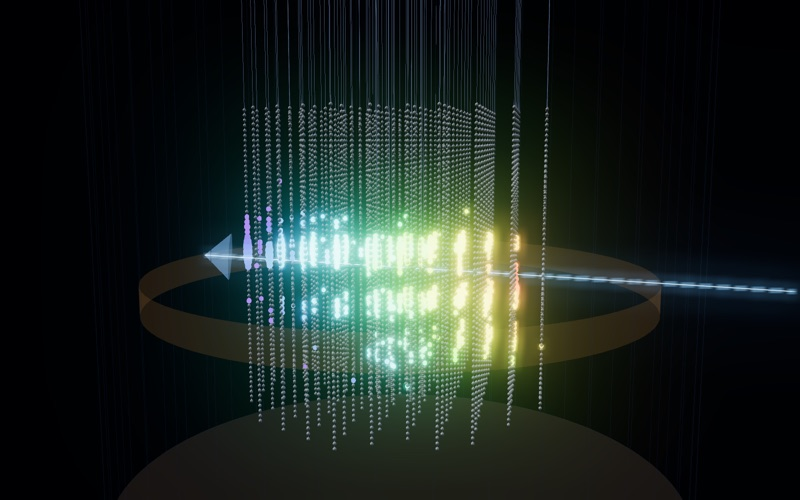
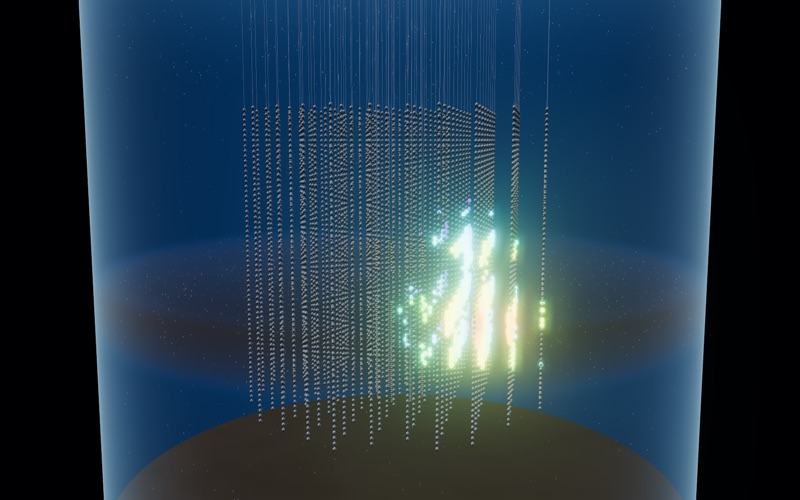
nuclearjs: IceCube page, the ice as a volume (nuclearjs 3087970)

diff --git a/nuclearjs/icecube.html b/nuclearjs/icecube.html
@@ -253,7 +253,7 @@ const SKY = WaveStage.skyGLSL(new THREE.Vector3(-0.4, 0.85, 0.45));
 scene.environment = WaveStage.environment(renderer, SKY);
 const GROUND = new THREE.Color("#05080e");
 scene.background = GROUND.clone();
-scene.fog = new THREE.Fog("#05080e", 700, 1500);
+scene.fog = new THREE.Fog("#04101f", 420, 1500);
 const controls = new OrbitControls(camera, renderer.domElement);
 controls.enableDamping = true; controls.dampingFactor = 0.08;
 controls.minDistance = 60; controls.maxDistance = 1200;
@@ -317,24 +317,87 @@ hits.count = 0; hits.instanceMatrix.setUsage(THREE.DynamicDrawUsage); hits.userD
 }
 // ice surface, IceTop tanks (two per station, 10 m apart, on the first 81 positions), the dust layer, the rock
 const RX = 95;
+let ICE_MAT = null, SPECKS = null;
 {
-  const surf = new THREE.Mesh(new THREE.CircleGeometry(RX * 1.15, 96).rotateX(-Math.PI / 2), new THREE.MeshStandardMaterial({ color: "#c9d4e2", roughness: 0.9, metalness: 0, transparent: true, opacity: 0.16, depthWrite: false }));
-  surf.position.y = yOfDepth(0); scene.add(surf);
+  // the ice: a column from the surface to the rock, drawn as a volume. Each pixel marches its view ray through the
+  // column (analytic ray-cylinder intersection) and adds the light the ice scatters towards the camera: whiter firn
+  // and bubbly ice near the top, clear blue ice below, the brown dust layer, a brighter rim where the column's wall is
+  // seen at a grazing angle. Drawn first and additively, so the sensors and the event sit inside it.
+  const RI = RX * 1.15, yTop = yOfDepth(0), yBot = yOfDepth(D.geo.iceThick * 1000);
+  ICE_MAT = new THREE.ShaderMaterial({
+    uniforms: { uR: { value: RI }, uTop: { value: yTop }, uBot: { value: yBot }, uScale: { value: U }, uD0: { value: D.geo.dust[0] }, uD1: { value: D.geo.dust[1] }, uGain: { value: 1.0 } },
+    vertexShader: `varying vec3 vW; void main() { vec4 w = modelMatrix * vec4(position, 1.0); vW = w.xyz; gl_Position = projectionMatrix * viewMatrix * w; }`,
+    fragmentShader: `
+      uniform float uR, uTop, uBot, uScale, uD0, uD1, uGain; varying vec3 vW;
+      void main() {
+        vec3 ro = cameraPosition, rd = normalize(vW - ro);
+        float a = dot(rd.xz, rd.xz), b = 2.0 * dot(ro.xz, rd.xz), c = dot(ro.xz, ro.xz) - uR * uR;
+        float disc = b * b - 4.0 * a * c;
+        if (disc < 0.0 || a < 1e-9) discard;
+        float sq = sqrt(disc), t0 = (-b - sq) / (2.0 * a), t1 = (-b + sq) / (2.0 * a);
+        float ya = (uBot - ro.y) / rd.y, yb = (uTop - ro.y) / rd.y;
+        float tn = max(max(t0, min(ya, yb)), 0.0), tf = min(t1, max(ya, yb));
+        if (tf <= tn) discard;
+        vec3 col = vec3(0.0); float T = 1.0; const int N = 28; float dt = (tf - tn) / float(N);
+        for (int i = 0; i < N; i++) {
+          vec3 p = ro + rd * (tn + (float(i) + 0.5) * dt);
+          float depth = (uTop - p.y) * uScale;
+          float bub = 1.0 - smoothstep(150.0, 1400.0, depth);             // firn and bubbly ice above about 1.4 km
+          float dust = smoothstep(uD0 - 60.0, uD0, depth) * (1.0 - smoothstep(uD1, uD1 + 60.0, depth));
+          float deep = smoothstep(2500.0, 2800.0, depth);
+          vec3 cc = mix(vec3(0.012, 0.045, 0.110), vec3(0.050, 0.120, 0.190), bub);
+          cc = mix(cc, vec3(0.020, 0.013, 0.007), 0.9 * dust);           // dust absorbs: a darker, browner band
+          cc = mix(cc, vec3(0.012, 0.030, 0.060), deep);
+          float r = length(p.xz) / uR;
+          cc *= 1.0 + 0.7 * smoothstep(0.85, 1.0, r);
+          float k = 0.0040 * (1.0 + 2.5 * bub + 7.0 * dust);
+          float w = 1.0 - exp(-k * dt);
+          col += T * w * cc; T *= 1.0 - w;
+        }
+        gl_FragColor = vec4(col * 1.6 * uGain, 1.0);
+      }`,
+    side: THREE.BackSide, blending: THREE.AdditiveBlending, depthWrite: false, transparent: false,
+  });
+  const iceVol = new THREE.Mesh(new THREE.CylinderGeometry(RI, RI, yTop - yBot, 96, 1, false), ICE_MAT);
+  iceVol.position.y = (yTop + yBot) / 2; iceVol.renderOrder = -10; iceVol.frustumCulled = false; iceVol.userData.noAO = true;
+  scene.add(iceVol);
+  // the wall of the column: a faint glassy rim where it is seen edge-on
+  const rim = new THREE.Mesh(new THREE.CylinderGeometry(RI, RI, yTop - yBot, 96, 1, true), new THREE.ShaderMaterial({
+    vertexShader: `varying vec3 vN, vV; void main() { vec4 w = modelMatrix * vec4(position, 1.0); vN = normalize(mat3(modelMatrix) * normal); vV = normalize(cameraPosition - w.xyz); gl_Position = projectionMatrix * viewMatrix * w; }`,
+    fragmentShader: `varying vec3 vN, vV; void main() { float f = pow(1.0 - abs(dot(normalize(vN), normalize(vV))), 4.0); gl_FragColor = vec4(vec3(0.35, 0.62, 0.85) * f * 0.55, 1.0); }`,
+    side: THREE.FrontSide, blending: THREE.AdditiveBlending, depthWrite: false, transparent: true }));
+  rim.position.y = iceVol.position.y; rim.userData.noAO = true; scene.add(rim);
+  // the snow surface (seen from above) and the rock below (seen from above through the ice)
+  const snowTex = WaveStage.noiseTexture(256, 24, 0.75, 1.0, 11);
+  const surf = new THREE.Mesh(new THREE.CircleGeometry(RI, 96).rotateX(-Math.PI / 2), new THREE.MeshStandardMaterial({ color: "#7d8a9b", roughness: 0.95, roughnessMap: snowTex, bumpMap: snowTex, bumpScale: 0.6, metalness: 0, envMapIntensity: 0.25 }));
+  surf.position.y = yTop; scene.add(surf);
+  const surfEdge = new THREE.Mesh(new THREE.RingGeometry(RI - 0.4, RI + 0.4, 96).rotateX(-Math.PI / 2), new THREE.MeshBasicMaterial({ color: "#5f7d99", side: THREE.DoubleSide }));
+  surfEdge.position.y = yTop + 0.02; scene.add(surfEdge);
   const tank = new THREE.CylinderGeometry(0.93, 0.93, 0.6, 20), tm = new THREE.MeshStandardMaterial({ color: "#d9dee6", roughness: 0.6 });
   const tanks = new THREE.InstancedMesh(tank, tm, D.geo.icetop.tanks), m4 = new THREE.Matrix4();
   for (let k = 0; k < D.geo.icetop.stations; k++) {
     const s = STR[k], h = D.geo.icetop.sep / U / 2;
-    m4.makeTranslation(s.x - h, yOfDepth(0) + 0.3, s.z + 1.5); tanks.setMatrixAt(2 * k, m4);
-    m4.makeTranslation(s.x + h, yOfDepth(0) + 0.3, s.z + 1.5); tanks.setMatrixAt(2 * k + 1, m4);
+    m4.makeTranslation(s.x - h, yTop + 0.3, s.z + 1.5); tanks.setMatrixAt(2 * k, m4);
+    m4.makeTranslation(s.x + h, yTop + 0.3, s.z + 1.5); tanks.setMatrixAt(2 * k + 1, m4);
   }
   scene.add(tanks);
-  const dust = new THREE.Mesh(new THREE.CylinderGeometry(RX, RX, (D.geo.dust[1] - D.geo.dust[0]) / U, 96, 1, true), new THREE.MeshBasicMaterial({ color: "#8a6a3a", transparent: true, opacity: 0.12, side: THREE.DoubleSide, depthWrite: false }));
-  dust.position.y = yOfDepth((D.geo.dust[0] + D.geo.dust[1]) / 2); scene.add(dust);
-  const rock = new THREE.Mesh(new THREE.CircleGeometry(RX * 1.15, 96).rotateX(-Math.PI / 2), new THREE.MeshStandardMaterial({ color: "#2a221d", roughness: 1, metalness: 0, transparent: true, opacity: 0.55, depthWrite: false }));
-  rock.position.y = yOfDepth(D.geo.iceThick * 1000); scene.add(rock);
-  // faint outline of the ice column
-  const edge = new THREE.LineSegments(new THREE.EdgesGeometry(new THREE.CylinderGeometry(RX * 1.15, RX * 1.15, D.geo.iceThick * 1000 / U, 48, 1, true)), new THREE.LineBasicMaterial({ color: "#1d2a3e", transparent: true, opacity: 0.35 }));
-  edge.position.y = yOfDepth(D.geo.iceThick * 500); scene.add(edge);
+  const rock = new THREE.Mesh(new THREE.CircleGeometry(RI, 96).rotateX(-Math.PI / 2), new THREE.MeshStandardMaterial({ color: "#2b231d", roughness: 1, metalness: 0, roughnessMap: WaveStage.noiseTexture(256, 10, 0.6, 1.0, 3) }));
+  rock.position.y = yBot; scene.add(rock);
+  // specks in the ice: air bubbles near the top, dust in the dust layer, a few everywhere; they drift very slowly
+  const nB = 3500, pos = new Float32Array(nB * 3), colA = new Float32Array(nB * 3);
+  let sd = 12345; const rr = () => (sd = (sd * 16807) % 2147483647) / 2147483647;
+  for (let i = 0; i < nB; i++) {
+    const kind = rr(), ang = 2 * Math.PI * rr(), rad = RI * Math.sqrt(rr()) * 0.985;
+    let depth, c;
+    if (kind < 0.45) { depth = 1400 * Math.pow(rr(), 1.6); c = [0.75, 0.88, 1.0]; }
+    else if (kind < 0.7) { depth = D.geo.dust[0] - 30 + (D.geo.dust[1] - D.geo.dust[0] + 60) * rr(); c = [0.85, 0.62, 0.38]; }
+    else { depth = D.geo.iceThick * 1000 * rr(); c = [0.45, 0.65, 0.9]; }
+    pos.set([rad * Math.cos(ang), yOfDepth(depth), rad * Math.sin(ang)], 3 * i); colA.set(c, 3 * i);
+  }
+  const bg = new THREE.BufferGeometry(); bg.setAttribute("position", new THREE.BufferAttribute(pos, 3)); bg.setAttribute("color", new THREE.BufferAttribute(colA, 3));
+  SPECKS = new THREE.Points(bg, new THREE.PointsMaterial({ size: 0.9, sizeAttenuation: true, vertexColors: true, transparent: true, opacity: 0.55, depthWrite: false, blending: THREE.AdditiveBlending,
+    map: WaveStage.radialTexture([[0, 1], [0.35, 0.45], [1, 0]]) }));
+  SPECKS.userData.noAO = true; scene.add(SPECKS);
 }
 // event objects
 const nuLine = new THREE.Line(new THREE.BufferGeometry(), new THREE.LineDashedMaterial({ color: "#c8b8ff", dashSize: 4, gapSize: 3, transparent: true, opacity: 0.7 }));
@@ -750,7 +813,7 @@ function staticTexts() {
   const P = NO.NO;
   document.getElementById("flnote").innerHTML = `Open circles: flavour at the source; dots: at Earth after oscillations averaged over the astronomical distance, with NuFIT 6.0 best fits (sin²θ₁₂ = ${P.s12.bf}, sin²θ₂₃ = ${P.s23.bf}, sin²θ₁₃ = ${P.s13.bf}, δ<sub>CP</sub> = ${P.dcp.bf}° for normal ordering). Cloud: random points inside the one-dimensional 3σ ranges with δ<sub>CP</sub> free, a scan rather than a confidence region. A pion-decay source arrives as nearly equal flavours; a neutron-decay source keeps an electron-flavour excess. Long tracks come mainly from ν<sub>μ</sub> charged-current interactions (and τ decays to muons); everything else is a shower.`;
   document.getElementById("fxnote").innerHTML = `IceCube's 9.5-year muon-neutrino fit: Φ = ${D.astro.phi0}<sup>+${D.astro.dphi[1]}</sup><sub>−${D.astro.dphi[0]}</sub> ×10⁻¹⁸ (E/100 TeV)<sup>−${D.astro.gamma}±${D.astro.dgamma}</sup> GeV⁻¹ cm⁻² s⁻¹ sr⁻¹ per flavour (ν + ν̄), solid where the data constrain it (${fE(D.astro.E1)} to ${fE(D.astro.E2)}), band the envelope of the one-sigma box (correlations ignored). The rate assumes ν : ν̄ = 1 : 1, extends the power law up to ${sci(D.xs.E[D.xs.E.length - 1])} GeV (the end of the cross-section table) and counts interactions, not detected events.`;
-  document.getElementById("drawn").textContent = `Drawn: ${DOMS.length} sensors (enlarged ${Math.round(2 * DOM_R * U / (D.geo.domInch * 0.0254))} times; a sensor is a ${D.geo.domInch}-inch glass sphere) on ${STR.length} strings, IceTop's ${D.geo.icetop.tanks} tanks, the dust layer at ${D.geo.dust[0]} to ${D.geo.dust[1]} m and the rock at ${D.geo.iceThick} km. The footprint is a regular hexagon here; the real one is irregular. Colour of a lit sensor: arrival time, red first; size: photo-electrons.`;
+  document.getElementById("drawn").textContent = `Drawn: ${DOMS.length} sensors (enlarged ${Math.round(2 * DOM_R * U / (D.geo.domInch * 0.0254))} times; a sensor is a ${D.geo.domInch}-inch glass sphere) on ${STR.length} strings, IceTop's ${D.geo.icetop.tanks} tanks, the dust layer at ${D.geo.dust[0]} to ${D.geo.dust[1]} m and the rock at ${D.geo.iceThick} km. The ice is drawn as a glowing volume, whiter where it is full of air bubbles near the top, browner and darker in the dust layer (colours schematic). The footprint is a regular hexagon here; the real one is irregular. Colour of a lit sensor: arrival time, red first; size: photo-electrons.`;
   document.getElementById("model").innerHTML = `
     <p><b>Cross sections.</b> σ(E) interpolated in log-log in the table of Cooper-Sarkar, Mertsch and Sarkar (isoscalar target, CC and NC, ν and ν̄). Glashow resonance per electron: σ = (24π/M<sub>W</sub>²) B(W→eν) sΓ<sub>W</sub>²/[(s − M<sub>W</sub>²)² + M<sub>W</sub>²Γ<sub>W</sub>²] (ħc)², s = 2m<sub>e</sub>E + m<sub>e</sub>²; 24π = 16π(2J+1)/[(2s<sub>ν</sub>+1)(2s<sub>e</sub>+1)] with one neutrino helicity. PDG 2024: M<sub>W</sub> = ${D.W.M} GeV, Γ<sub>W</sub> = ${D.W.G} GeV, B(W→eν) = ${(100 * D.W.Bev).toFixed(2)}%.</p>
     <p><b>Earth.</b> PREM density (TauP node file, linear between nodes, no ocean) below ${D.geo.iceThick} km of ice of ${D.ice.rho} g cm⁻³; detector at ${D.det.toFixed(2)} km depth. Column X(cos z) = ∫ρ dl by Simpson's rule (4000 steps), tabulated at ${XG.c.length} values of cos z (uniform, denser near the horizon and around every direction whose chord grazes a density jump; within 0.3% of the direct integral). Survival exp(−N<sub>A</sub> X σ<sub>tot</sub>); for ν̄<sub>e</sub> the resonance adds N<sub>A</sub> X ⟨Z/A⟩ σ<sub>W</sub> with ⟨Z/A⟩ = ${D.ZA} assumed.</p>
@@ -796,6 +859,7 @@ function animate(now) {
   requestAnimationFrame(animate);
   const dt = Math.min(0.1, Math.max(0, (now - last) / 1000)); last = now;
   controls.update(); updateEvent(dt);
+  if (SPECKS) SPECKS.rotation.y += dt * 0.004;
   if (AN.ev && AN.t > AN.IN + AN.PLAY + 3.5) newEvent(true);
   if (quality === "high") composer.render(); else renderer.render(scene, camera);
   drawLabels();
